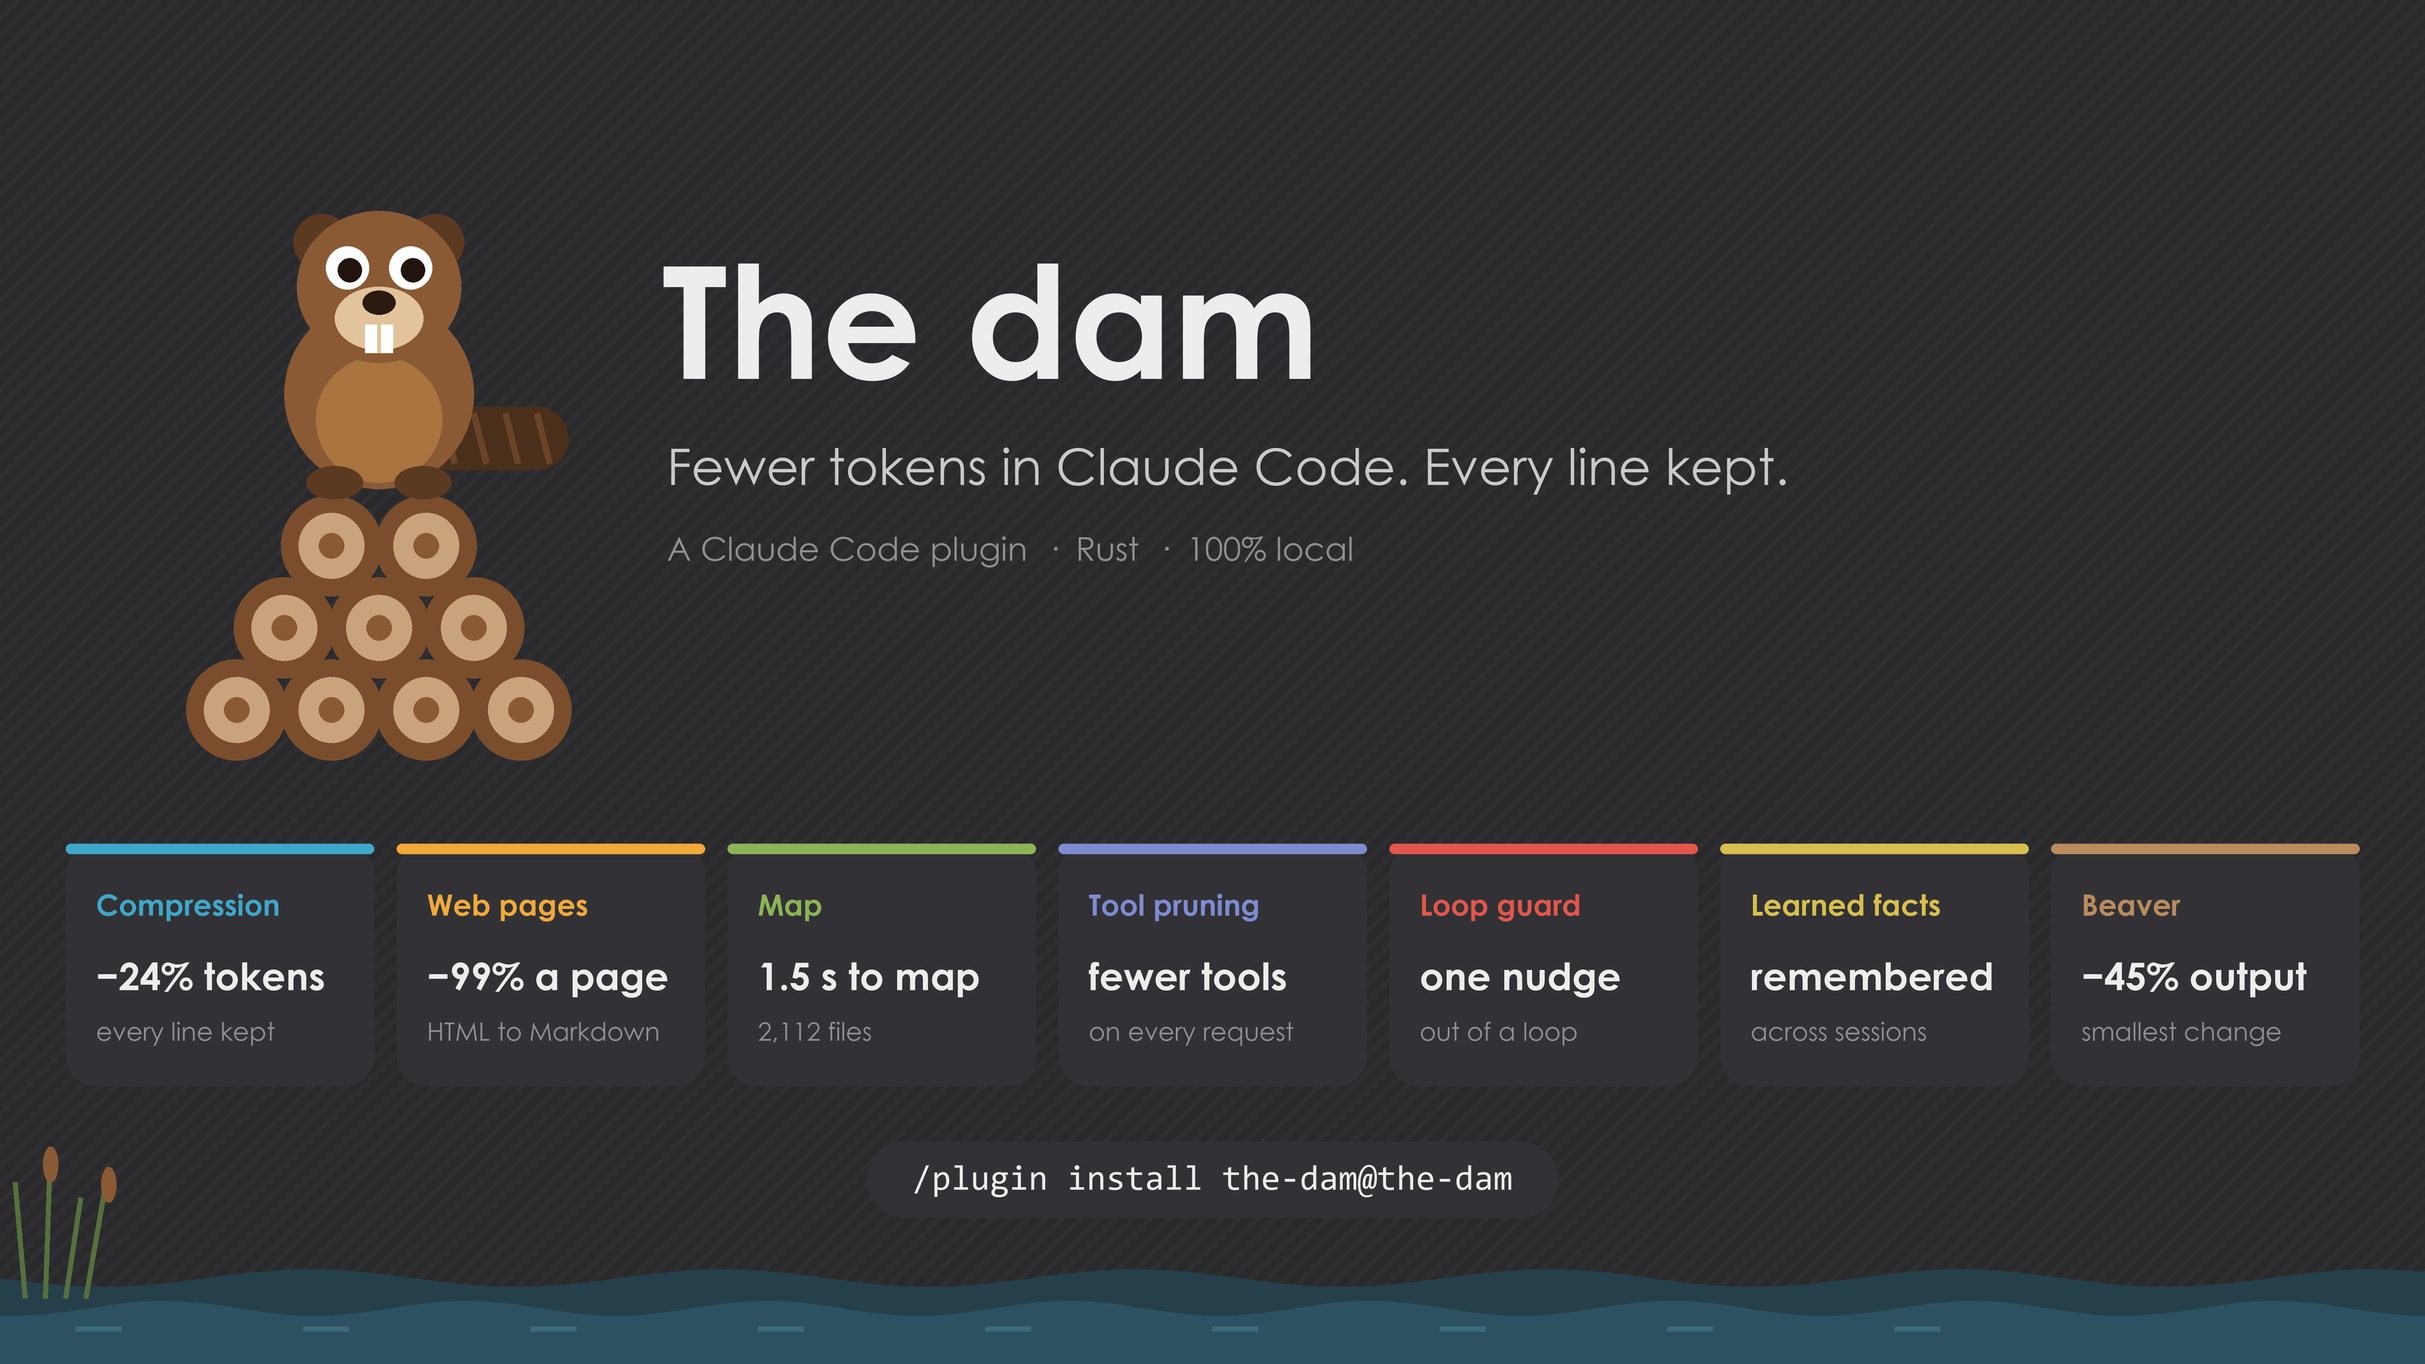
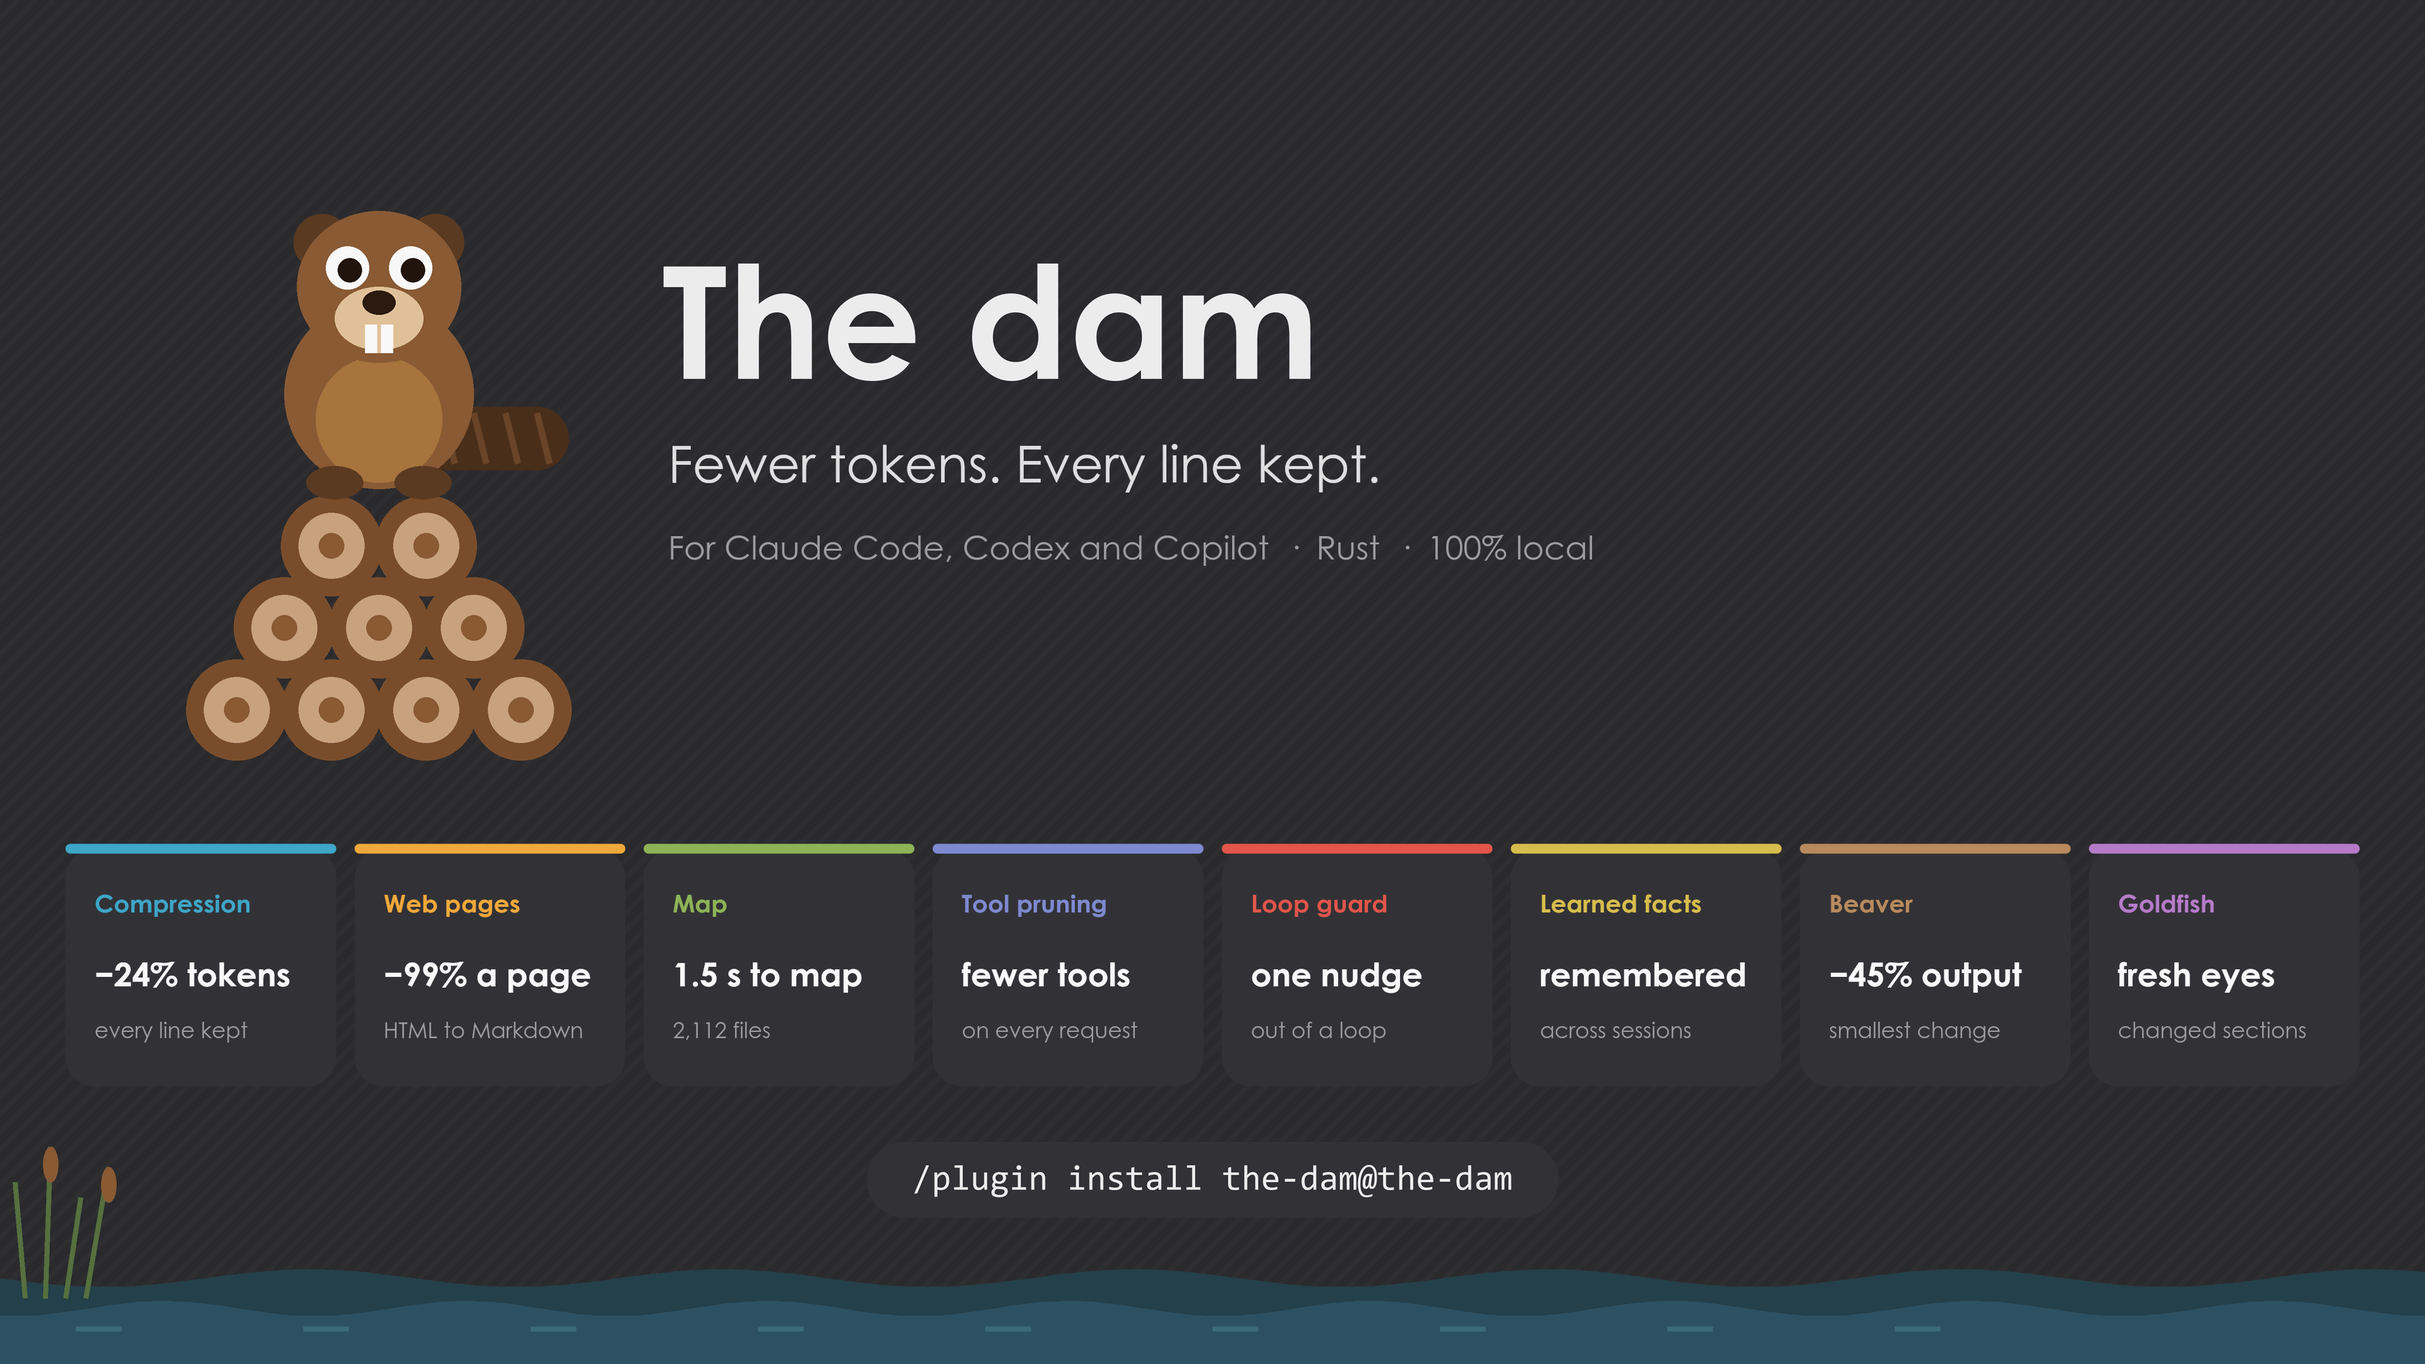
README: EGM skills, advisor and workers, hosts, status line; intro GIF with Goldfish card, light and dark

diff --git a/README.md b/README.md
@@ -5,7 +5,7 @@
 <h1 align="center">The dam</h1>
 
 <p align="center">
-  <strong>Spend fewer tokens in Claude Code without losing a line.</strong>
+  <strong>Spend fewer tokens in Claude Code, Codex and Copilot without losing a line.</strong>
 </p>
 
 <p align="center">
@@ -20,7 +20,7 @@
     <source media="(prefers-color-scheme: dark) and (prefers-reduced-motion: reduce)" srcset="assets/intro-dark.png">
     <source media="(prefers-reduced-motion: reduce)" srcset="assets/intro.png">
     <source media="(prefers-color-scheme: dark)" srcset="assets/intro-dark.gif">
-    <img src="assets/intro.gif" width="100%" alt="The dam in a few seconds: a beaver on its log dam, then seven cards. Compression, every line kept (up to 24% fewer tokens on repetitive output, about 2.6% over a whole session). Web pages, 99% less of a page, HTML to Markdown. Map, 2,112 files mapped in 1.5 s. Tool pruning, fewer tools on every request. Loop guard, one nudge out of a loop. Learned facts, remembered across sessions. Beaver, 45% less output. Then the install command.">
+    <img src="assets/intro.gif" width="100%" alt="The dam in a few seconds: a beaver on its log dam, for Claude Code, Codex and Copilot, then eight cards. Compression, every line kept (up to 24% fewer tokens on repetitive output, about 2.6% over a whole session). Web pages, 99% less of a page, HTML to Markdown. Map, 2,112 files mapped in 1.5 s. Tool pruning, fewer tools on every request. Loop guard, one nudge out of a loop. Learned facts, remembered across sessions. Beaver, 45% less output. Goldfish, fresh reviewers on the sections that changed. Then the install command.">
   </picture>
 </p>
 
@@ -66,8 +66,13 @@ In Codex, trust the plugin's hooks with `/hooks` before they run.
 | Loop guard, learned facts | ✅ | ✅ | ✅ |
 | Beaver, skills, `doctor`, `fallback` | ✅ | ✅ | ✅ |
 | Tool pruning | ✅ deny list | ✅ capabilities in `.codex/config.toml` | ✅ MCP servers in `.github/copilot/settings.local.json` |
-| 🦫 mode · 💧 counter: status line | ✅ | ✅ shown with each prompt (its status line takes built-in items only) | ✅ set on the first session (`/the-dam:statusline uninstall` removes it) |
-| 💧 counter: on demand | `/the-dam` pane | `/the-dam:journal` | `/the-dam:journal` |
+| Use-case playbook (feature, bugfix, refactor, review, docs) added to the prompt | ✅ | ✅ | ✅ |
+| Map first: the first look is met by the map's overview, a search for code names is answered by it | ✅ | ✅ through the shell | ✅ `grep`, `glob`, `view` |
+| A finished design is sent to review, code waits for it | ✅ | ✅ nudge | ✅ nudge |
+| Advisor and worker, on the model ladder | ✅ Opus 5.5 / Haiku 5.5, set on the first session | ✅ `gpt-6-astra` / `gpt-6-luna` agents, set on the first session | ✅ agents declared by the plugin |
+| Worker required after six looks of the main agent; advisor required before a turn of 3+ code files ends | ✅ | – needs Claude Code's sub-agent and transcript shapes | – |
+| 🦫 mode · 💧 counter · 💸 cost: status line | ✅ | ✅ shown with each prompt (its status line takes built-in items only) | ✅ set on the first session (`/the-dam:statusline uninstall` removes it) |
+| Journal of what the dam did, with its events | `/the-dam` pane | `/the-dam:journal` | `/the-dam:journal` |
 
 Codex cannot rewrite a tool's output, so the condensed one comes back as the hook's feedback, which Codex gives the model in its place. Copilot drops what its prompt hook prints, so the map's answer for a prompt goes into the prompt the model receives (`userPromptTransformed`). The loop guard's judge runs through the host's own CLI (`claude -p`, `codex exec` in a read-only sandbox, `copilot -p` with every tool denied).
 
@@ -78,7 +83,7 @@ Codex cannot rewrite a tool's output, so the condensed one comes back as the hoo
 | `/the-dam` | The session's journal beside the chat, newest first, with its totals |
 | `/the-dam-compress` | Compression on or off |
 | `/the-dam:journal` | What the dam saved this session and since it was installed, in any host |
-| `/the-dam:models` | Claude Code and Codex. Claude Code: the first session after installing sets Sonnet 5.5 as the session model and Opus 5.5 as advisor in your own settings (`/the-dam:models uninstall` puts back what was there, and it stays undone); the built-in subagents run on Haiku 5.5 through the plugin itself. Codex: the first session sets `gpt-6.1-sol` for the session and `gpt-6-luna` for subagents in `~/.codex/config.toml` and adds an `advisor` agent (`gpt-6-astra`) and a `worker` agent (`gpt-6-luna`) |
+| `/the-dam:models` | Claude Code, Codex and Copilot (whose `advisor` and `worker` agents ship with the plugin; its session model is yours). Claude Code: the first session after installing sets Sonnet 5.5 as the session model and Opus 5.5 as advisor in your own settings (`/the-dam:models uninstall` puts back what was there, and it stays undone); the built-in subagents run on Haiku 5.5 through the plugin itself. Codex: the first session sets `gpt-6.1-sol` for the session and `gpt-6-luna` for subagents in `~/.codex/config.toml` and adds an `advisor` agent (`gpt-6-astra`) and a `worker` agent (`gpt-6-luna`) |
 | `/the-dam:statusline uninstall` | Takes the dam's counter out of Copilot's status line (`install` puts it back; it is set on the first session) |
 | `/the-dam:status` | What TokenEconomizer learned for this repository |
 | `/the-dam:toolprune` | The tools left out here; give one back or apply a waiting list |
@@ -96,13 +101,16 @@ Codex cannot rewrite a tool's output, so the condensed one comes back as the hoo
 ## Status line
 
 ```
-🦫 full · 💧 412k/12.4M (3.2%) · 🪵 27 · 🌀 1 · 🧠 5 · 🗺 2.2k · 🌊 31%
+🦫 full · 💧 412k/12.4M (3.2%) · 💸 $0.42 · 🪵 27 · 🌀 1 · 🧠 5 · 🗺 2.2k · 🌊 31%
 ```
+
+Codex and Copilot show the same line without 🪵, 🌀 and 🌊.
 
 | Icon | Figure |
 |---|---|
 | 🦫 | Beaver's level |
 | 💧 | Tokens the session's requests did not carry, out of all they counted. A token taken out of a tool output counts once for each later request, since each would have re-read it, until a compaction. A pruned MCP tool's schema counts once per request. |
+| 💸 | The session's cost. Claude Code: what `/cost` shows (`cost.usd`, in dollars). Copilot: its premium requests. Codex: dollars for GPT-6.1 Sol at OpenAI's API price (standard tier), else the requests priced as fresh-input tokens (input 1, cache read 0.1, cache write 1.25, output 5). |
 | 🪵 | Tools left out, `+n` waiting |
 | 🌀 | Loops stopped |
 | 🧠 | Facts given to the model |
@@ -157,11 +165,35 @@ Ponytail's rules, rewritten: make the smallest change that fully solves the task
 
 Several sessions can run at once. Each keeps its own level, originals and counts.
 
-### Design review
+### Goldfish: reviewers with a fresh mind
 
 <picture><source media="(prefers-color-scheme: dark)" srcset="assets/part-goldfish-dark.gif"><img src="assets/part-goldfish.gif" width="600" alt="A design document of ten lines in four sections: the two that changed go to four fresh reviewers, who each come back with a verdict"></picture>
 
-A finished design document is reviewed by four reviewers that start with none of the conversation (the [Elephant-Goldfish Model](https://github.com/google/elephant-goldfish-model), rewritten in Rust): one for simplicity, a cold reader, a critic, one for readiness. Only the sections that changed since the last review are read; `/the-dam:resolve` settles what they report, and `dam goldfish drift` lists what a document says that the code no longer backs.
+The [Elephant-Goldfish Model](https://github.com/google/elephant-goldfish-model) reviews a document with readers that start with none of the conversation, so they see what its author stopped seeing. All of its skills are ported, rewritten in Rust and Markdown, and run on every host:
+
+| EGM | the dam | What it does here |
+|---|---|---|
+| Brainstorm, Draft | `/the-dam:design` | Tests the idea, writes a concepts brief, then the specification, one step at a time, each approved. The map gives what already exists. |
+| Review | `/the-dam:goldfish` | Four fresh reviewers: simplicity, a cold reader (Haiku 5.5), a critic, readiness of the plan. Only the sections that changed since the last review are read (a hash per `##` section); the map gives them the files the document names. |
+| Resolve | `/the-dam:resolve` | Contests what is wrong, escalates what only you know, proposes fixes and applies the ones you accept. |
+| Review loop | `/the-dam:goldfish-loop` | Review and resolve again, on one document or section, until two clean rounds in a row. |
+| Bootstrap | `/the-dam:bootstrap` | A README per folder, written as a contract (what it exposes, assumes, touches) from the map, then checked against the code. |
+| Drift report | `/the-dam:drift`, `dam goldfish drift` | What a document says that the code no longer backs: files gone or moved, names renamed or removed. Reported once at session start for the README and `docs/`. |
+| Following EGM | `dam upstream` | Records the version followed, lists what moved since; a weekly workflow opens an issue. |
+
+What the dam adds: a finished design document is noticed by a hook and sent to review by itself, code is held back until the review has begun, and the reviewers run on the cheapest model that can do each job. `DAM_GOLDFISH=ask|off` changes that.
+
+### Advisor and workers
+
+The model that runs the session is not the one that reviews or explores. Three roles on one ladder in each host:
+
+| | Claude Code | Codex | Copilot |
+|---|---|---|---|
+| Session | Sonnet 5.5 | `gpt-6.1-sol` | your model |
+| `advisor`: fresh reviewer, read-only, decides what is hard to reverse | Opus 5.5 | `gpt-6-astra` | agent declared by the plugin |
+| `worker`: broad reading and searching, read-only, a shell that may only look, answers in 8 lines | Haiku 5.5 | `gpt-6-luna` | agent declared by the plugin |
+
+Set once on the first session (`/the-dam:models uninstall` puts back what was there). Under Claude Code the hooks make it the rule rather than advice: after six looks of its own in one request the main agent is sent to a `worker` (five refusals at most, so none can loop), a turn that changed 3 or more code files, or a sensitive one (auth, money, data, migrations), cannot end before the `advisor` has reviewed it (once per turn), and a worker's shell is refused anything that changes something. `DAM_MAPFIRST=off` and `DAM_REVIEW=off` turn those off.
 
 ## A walk-through
 
@@ -239,7 +271,7 @@ On html-to-markdown's own test files, the conversion matches 75% of lines, setti
 | [html-to-markdown](https://github.com/JohannesKaufmann/html-to-markdown) | MIT | Escaping, table and layout rules, and its tests | `v2.5.2` |
 | [Readability](https://github.com/mozilla/readability), [Turndown](https://github.com/mixmark-io/turndown) | Apache 2.0, MIT | Main-content choice and Markdown rules | – |
 | [graphify](https://graphify.com) | – | The map's reference measurements; no code taken | `v0.9.99` |
-| [Elephant-Goldfish Model](https://github.com/google/elephant-goldfish-model) | Apache 2.0 | The method of `design`, `goldfish` and `drift`; reviewers shortened, on the model ladder, using the map | `e9e1f06` |
+| [Elephant-Goldfish Model](https://github.com/google/elephant-goldfish-model) | Apache 2.0 | All its skills: `design` (Brainstorm, Draft), `goldfish` (Review), `goldfish-loop` (Review loop), `resolve`, `bootstrap`, `drift` (Drift report); reviewers shortened, on the model ladder, using the map, with section-level re-review | `e9e1f06` |
 
 [NOTICE](NOTICE) credits each with its licence. None of their authors endorse this project.
 
@@ -247,7 +279,8 @@ On html-to-markdown's own test files, the conversion matches 75% of lines, setti
 
 | What | How |
 |---|---|
-| Mandatory review | A turn that changed 3 or more code files, or a sensitive one, cannot end before the `advisor` has reviewed it (once per turn). `DAM_REVIEW=off` disables. Claude Code transcripts only: Codex and Copilot get the hook, not a tested effect. |
+| Mandatory review and workers | A turn that changed 3 or more code files, or a sensitive one, cannot end before the `advisor` has reviewed it (once per turn); broad exploration past six looks goes to a `worker`. `DAM_REVIEW=off`, `DAM_MAPFIRST=off` disable. Claude Code only: they need its sub-agent and transcript shapes. |
+| Switches | `DAM_USECASE=off` (playbooks), `DAM_MAPFIRST=off` (map first and worker rules), `DAM_GOLDFISH=ask\|off`, `DAM_REVIEW=off`, `DAM_HOOK_DUMP=<file>` (keeps each payload a hook receives, for debugging) |
 | Automatic review | A finished design document is reviewed by itself (/the-dam:goldfish, changed sections only). `DAM_GOLDFISH=ask` asks first, `off` disables. Documents that name missing files are reported once at session start. |
 | Upstream | [`UPSTREAM`](UPSTREAM) records the version followed for each project. `dam upstream` lists what moved since (commits, and files under the ported paths with `gh`); you port by hand, then `dam upstream pin NAME`. A weekly workflow opens an issue when one moved. |
 | Tests | `cd dam && cargo test` (unit tests, the programs end to end, the Codex and Copilot packaging), `claude plugin test .`, `claude plugin validate .` |

diff --git a/CHANGELOG.md b/CHANGELOG.md
@@ -2,6 +2,7 @@
 
 ## 0.32.0
 
+- **The README and the pictures follow.** The intro GIF now says Claude Code, Codex and Copilot and has an eighth card for Goldfish (and its still poster, light and dark). The README lists every EGM skill ported (Brainstorm and Draft as `design`, Review, Resolve, Review loop, Bootstrap, Drift report, following upstream), describes the advisor and worker pattern on each host, and its host table, status line and switches match what runs.
 - **A GIF for the design review**, in the same style as the others (`assets/part-goldfish.gif`, with its dark twin), under "How it works" in the README.
 - **Dollars on Codex when the price is known.** `💸 $1.23` for GPT-6.1 Sol (OpenAI API price $2 / $0.10 cached / $2.50 cache write / $10 output per million, standard tier up to 272K input, so a very long request reads low); other Codex models keep the token pricing until their price is added to `pricing.rs`. Copilot stays in premium requests: GitHub moved to credits in June 2026, so a dollar figure from requests would be wrong for some plans.
 - **Copilot's own cost.** Its status line shows the session's premium requests from its payload (`cost.total_premium_requests`; not checked against a live payload), as `💸 3 req`; without them the token pricing stays. Codex gives no cost to hooks, so it keeps the token pricing.
